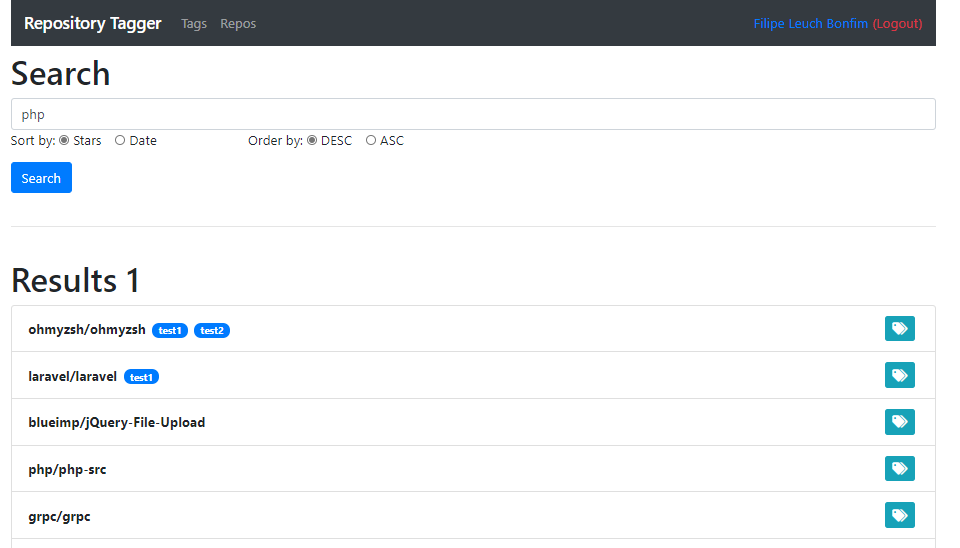
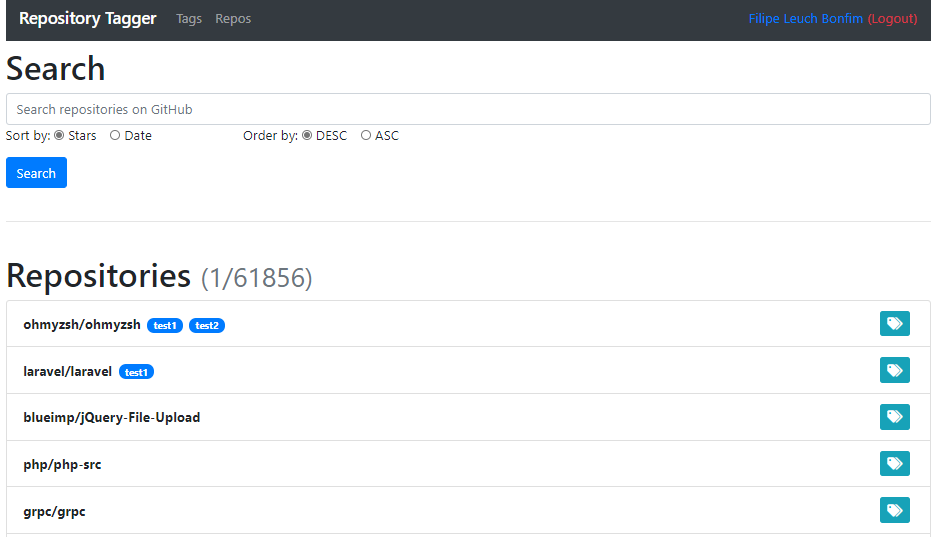
Update serach img in README

Changed region(s): [[0.0, 0.4767, 0.9851, 1.0], [0.0, 0.0, 1.0, 0.3575]]

diff --git a/README.md b/README.md
@@ -22,7 +22,7 @@ php artisan migrate
 #### Search page
 ![Search page](resources/imgs/search.png)
 
-#### Tag page
+#### Tags page
 ![Tags page](resources/imgs/tags.png)
 
 #### Repositories page
